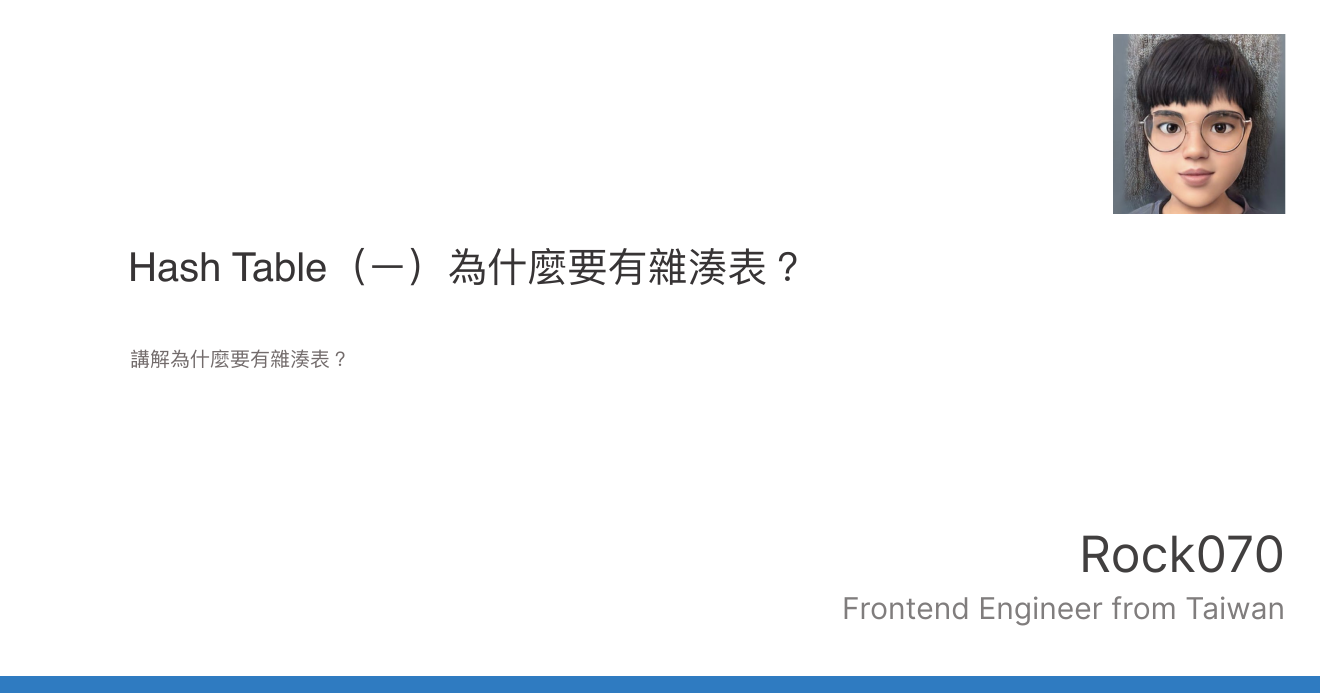
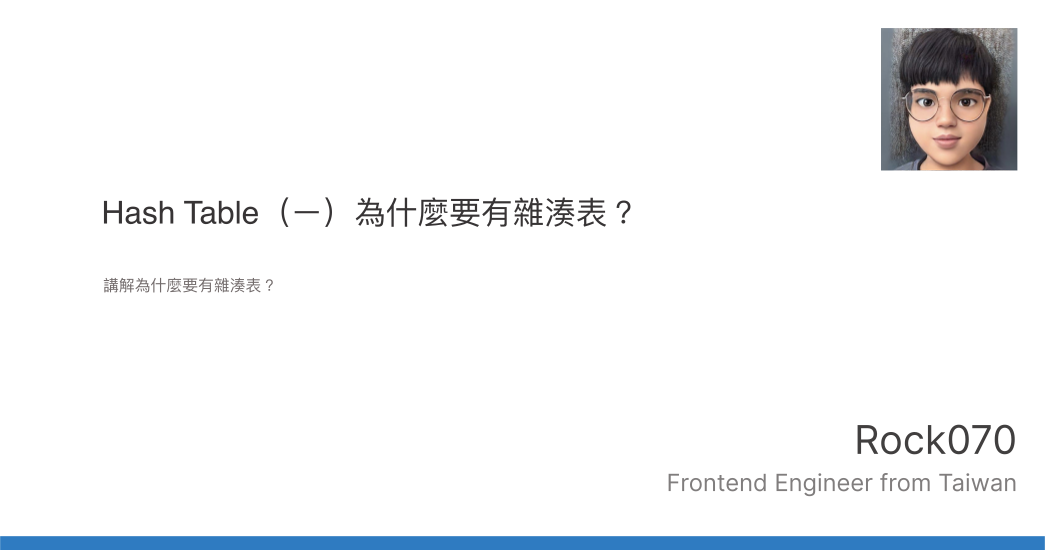
fix(seo): 嘗試更換 meta og:image 大小

diff --git a/scripts/svg-generate.ts b/scripts/svg-generate.ts
@@ -37,7 +37,7 @@ async function generateSVG(meta: BlogPost, output: string) {
   const svg = ogSVg.replace(/\{\{([^}]+)}}/g, (_, name: keyof typeof data) => data[name])
 
   await sharp(Buffer.from(svg))
-    .resize(1200 * 1.1, 630 * 1.1)
+    .resize(950 * 1.1, 500 * 1.1)
     .png()
     .toFile(output)
 }

diff --git a/nuxt.config.ts b/nuxt.config.ts
@@ -72,7 +72,7 @@ export default defineNuxtConfig({
         },
         {
           name: 'twitter:card',
-          content: 'summary',
+          content: 'summary_large_image',
         },
         {
           name: 'twitter:site',
